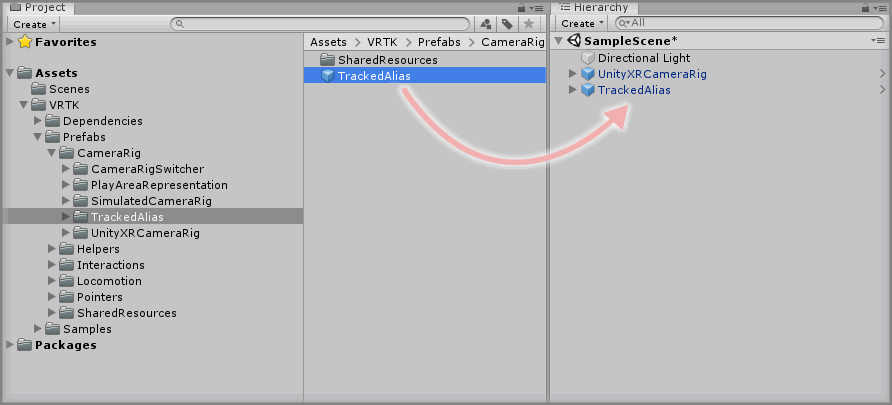
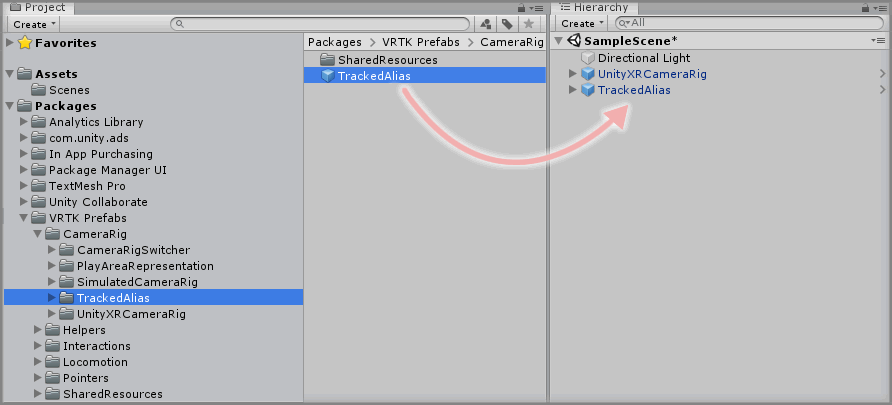
fix(HowToGuides): update adding tracked alias guide
Update the guide to show the steps for needing the new VRTK Prefabs
repository.

Changed region(s): [[0.0, 0.1481, 0.3632, 1.0], [0.333, 0.0889, 0.6054, 0.1185], [0.0, 0.0889, 0.1211, 0.1185]]

diff --git a/Documentation/HowToGuides/CameraRigs/AddingATrackedAlias/README.md b/Documentation/HowToGuides/CameraRigs/AddingATrackedAlias/README.md
@@ -27,7 +27,7 @@ This is useful if you want to support multiple SDK Camera Rigs in your scene but
 
 ### Step 1
 
-Expand the VRTK directory in the Unity Project window until the `VRTK -> Prefabs -> CameraRig -> TrackedAlias` directory is visible then drag and drop the `TrackedAlias` prefab into the Hierarchy window.
+Expand the VRTK Prefabs Package directory in the Unity Project window until the `Packages -> VRTK Prefabs -> CameraRig -> TrackedAlias` directory is visible then drag and drop the `TrackedAlias` prefab into the Hierarchy window.
 
 ![Drag TrackedAlias To Hierarchy](assets/images/DragTrackedAliasToHierarchy.png)
 
